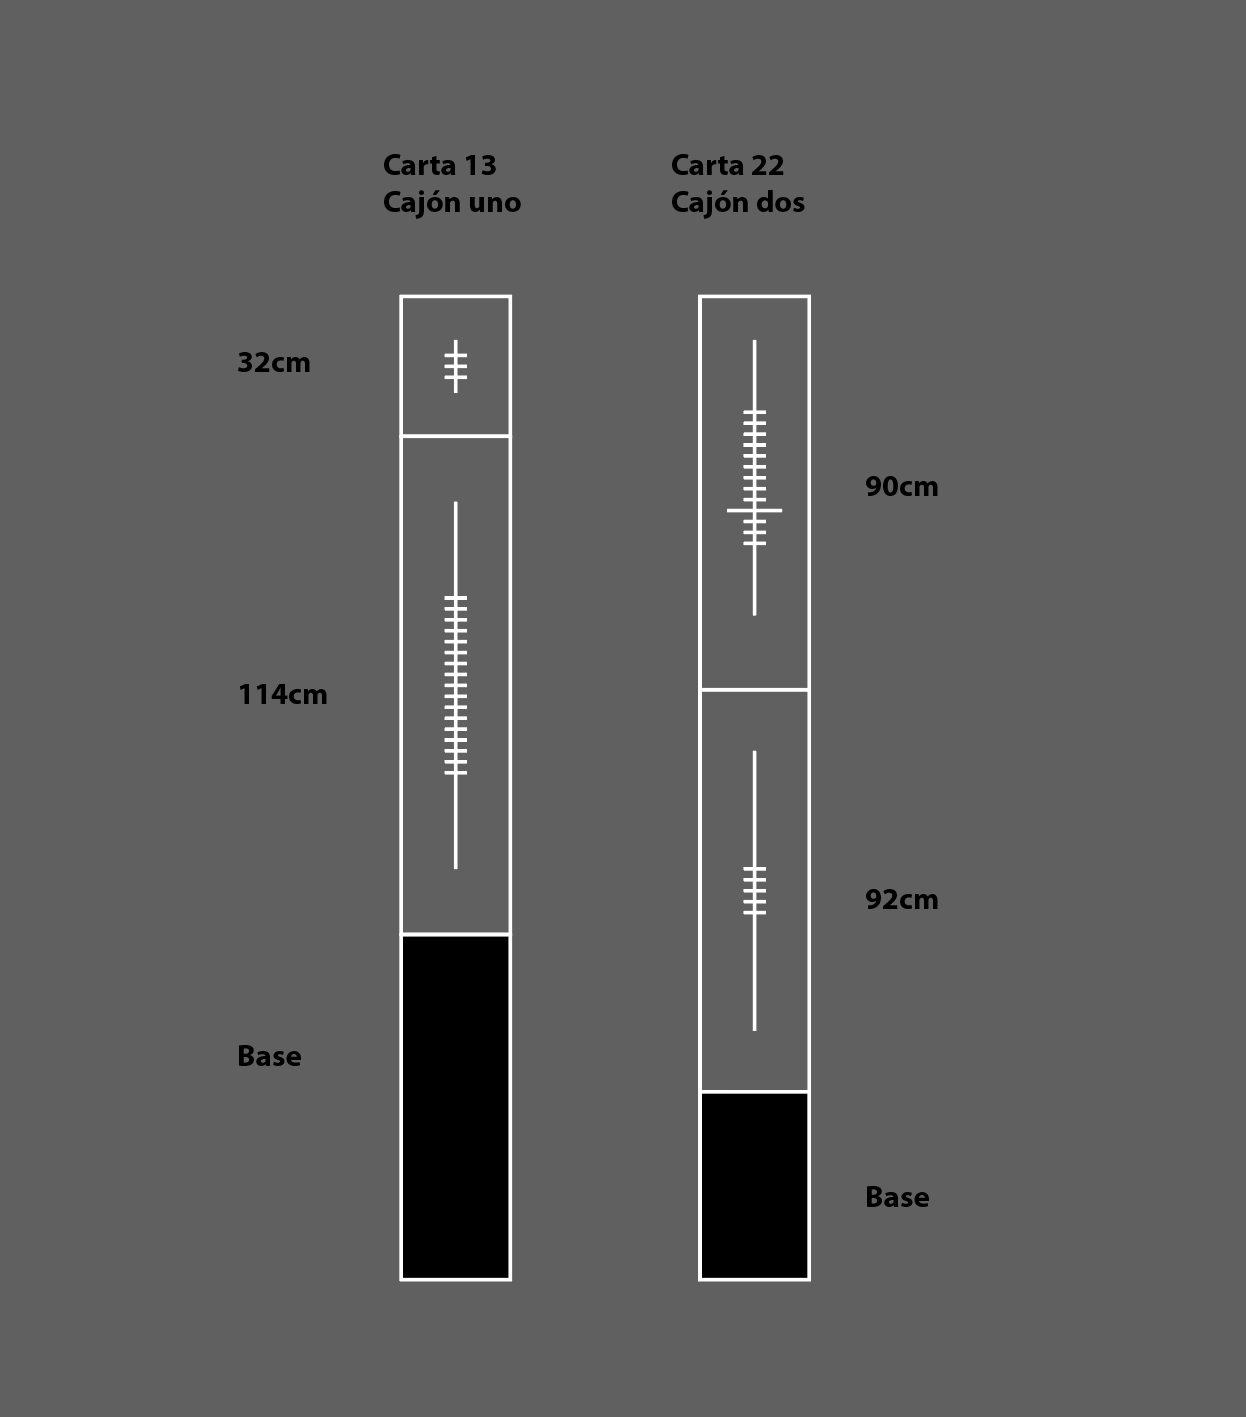
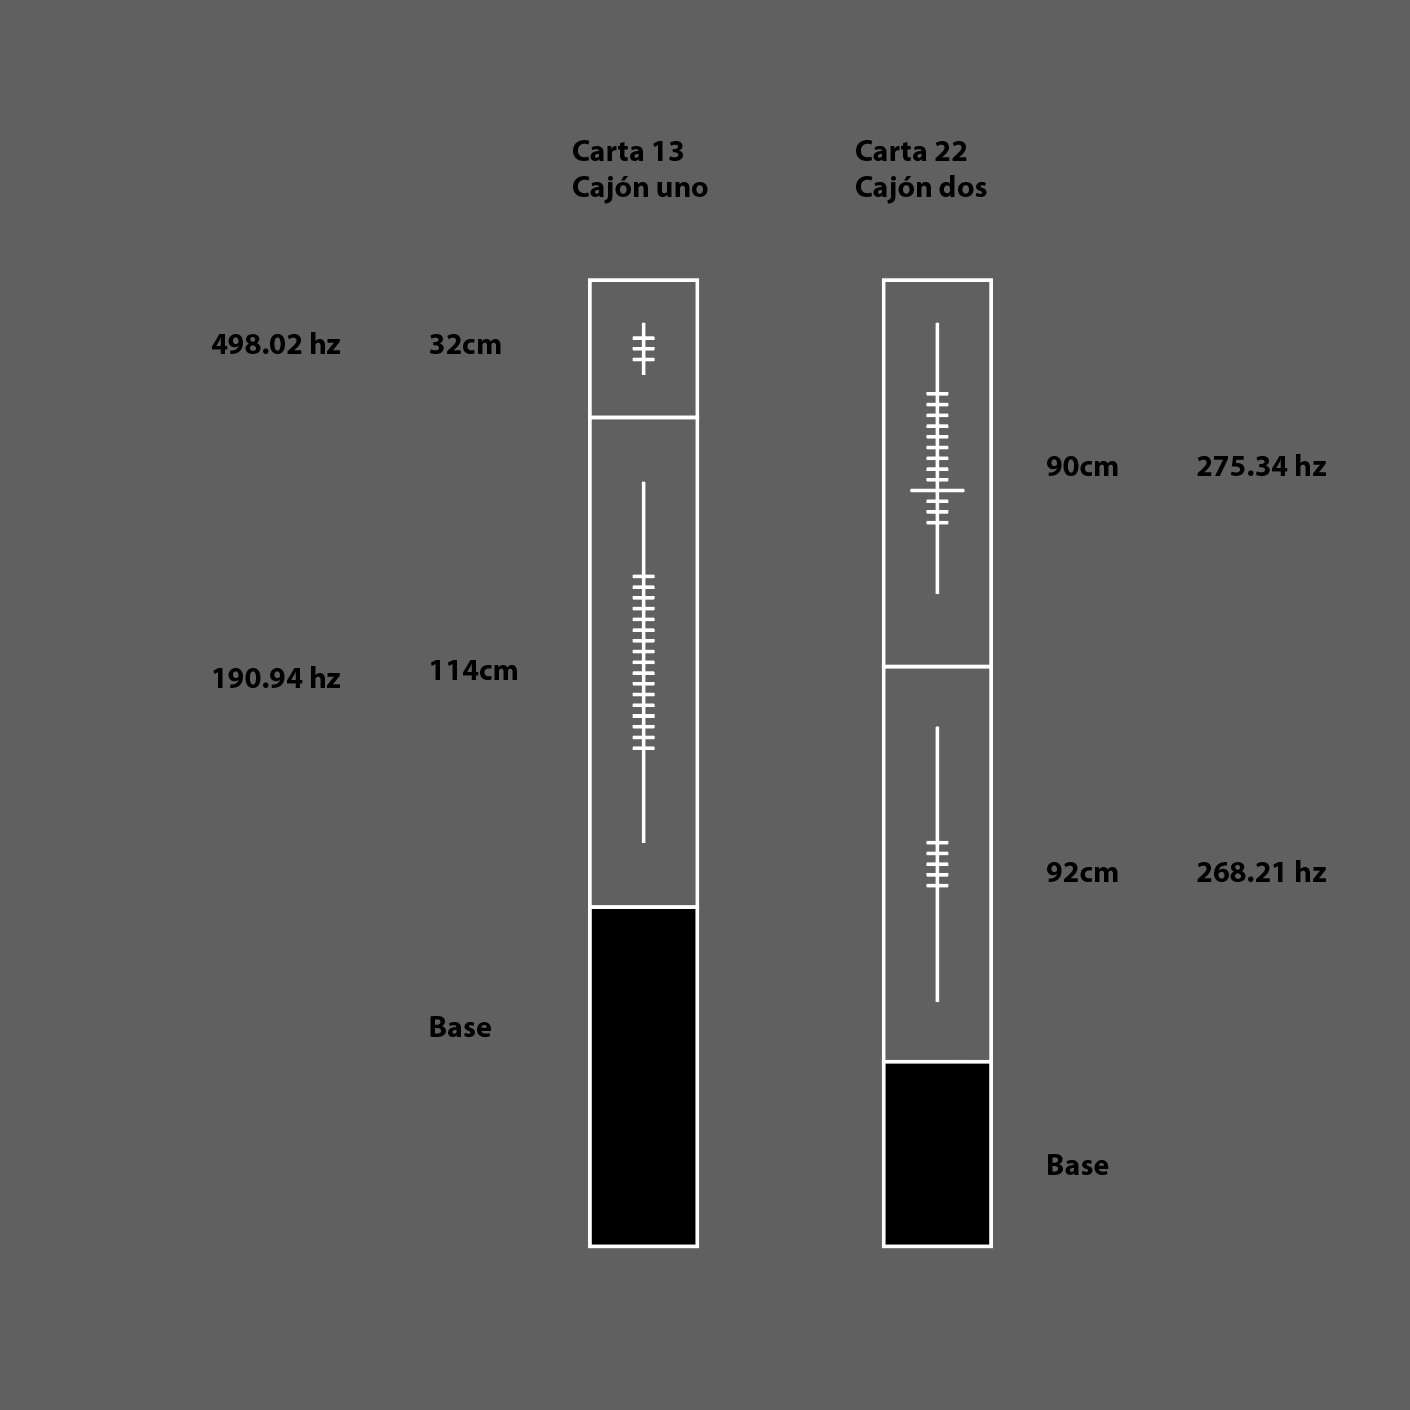
Actualización de dimensiones

diff --git a/Helmholtz/frecuencias_b.md b/Helmholtz/frecuencias_b.md
@@ -1,0 +1,49 @@
+# Frecuencias
+
+## Carta 13, cajón 1
+
+### Cajón superior: 190.94 hz
+- Base externa: 25cm
+- Base interna: 22.46cm
+- Profundidad externa: 25cm
+- Profundidad Interna: 22.46cm
+- Altura externa: 32cm
+- Altura interna: 29.46cm
+- Volumen: 0.01486m³
+- Area de apertura: 24.43 cm²
+- Cuello: 1.3516cm
+
+### Cajón inferior: 498.02 hz
+- Base externa: 25cm
+- Base interna: 22.46cm
+- Profundidad externa: 25cm
+- Profundidad Interna: 22.46cm
+- Altura externa: 114cm
+- Altura interna: 111.46cm
+- Volumen: 0.05623m³
+- Area de apertura: 155.25 cm²
+- Cuello: 0.3337cm
+
+## Carta 22, cajón 2
+
+### Cajón superior: 339.53 hz
+- Base externa: 25cm
+- Base interna: 22.46cm
+- Profundidad externa: 25cm
+- Profundidad Interna: 22.46cm
+- Altura externa: 90cm
+- Altura interna: 87.46cm
+- Volumen: 0.04412m³
+- Area de apertura: 131.96 cm²
+- Cuello: 0.7777cm
+
+### Cajón inferior: 346.26 hz
+- Base externa: 25cm
+- Base interna: 22.46cm
+- Profundidad externa: 25cm
+- Profundidad Interna: 22.46cm
+- Altura externa: 92cm
+- Altura interna: 89.46cm
+- Volumen: 0.04513m³
+- Area de apertura: 111.28 cm²
+- Cuello: 0.6165cm

diff --git a/Documentos/medidas.md b/Documentos/medidas.md
@@ -19,12 +19,12 @@ Cajón dos (carta 22)
 
 - Inferior: 
 25cm x 25cm de base
-32cm de altura
-92cm
+92cm de altura
+
 
 ----------------------------------------
 
 ![](https://github.com/hugoescalpelo/el-timepo-ganado-a-la-guerra/blob/main/Documentos/image.png?raw=true)
 
 ## Nota
-Las alturas de todos los resonadores es de 220cm
+Las alturas de todos los resonadores es de 225cm
